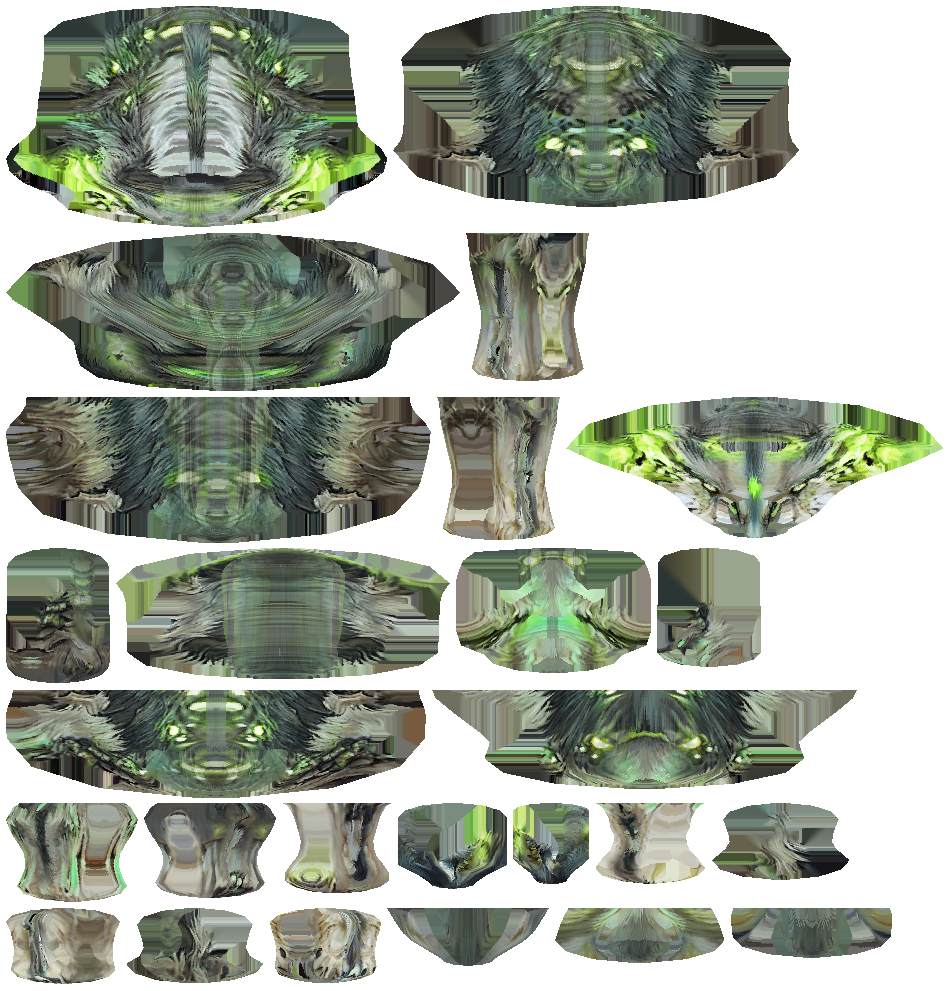
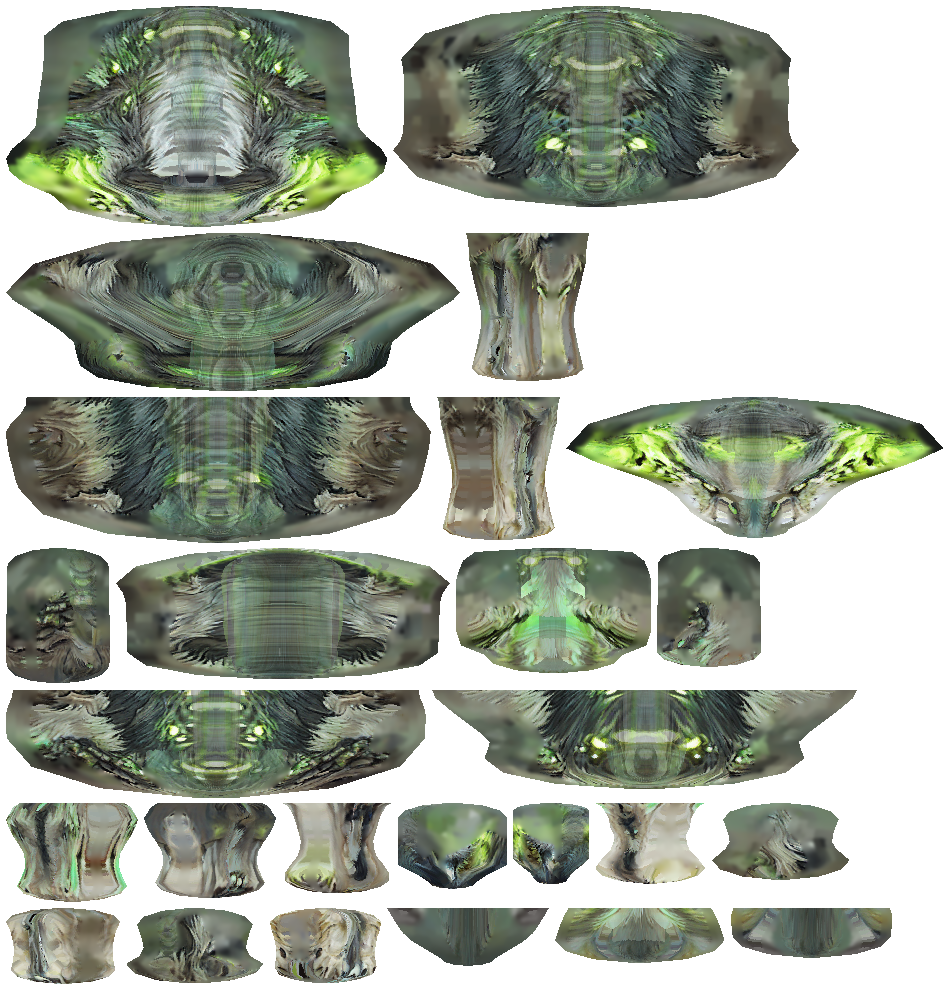
feat(gs_puppet): what no painting sees takes the nearest painted colour in 3D
Build sheet used to fill the texels no painting reached by smearing across
the flat pattern sheet, so a troll's neck, hidden in every view, came out
bare or streaked. fill_unseen fills them on the body instead: the seen
texels' surface points go into cubes of eight sizes (0.04 ft, doubling), and each unseen
texel takes a Gaussian-weighted mean of the 27 neighbouring cubes at the
finest level that has any, then a few smoothing passes. fill_holes still
runs after it for anything left.

Sheets and skins rebuilt: humanoid (and its normal sheet), lurk, and the
canine, humanoid and troll creatures' skins (the hull clip also changed
their pattern sizes).

diff --git a/crates/gs_puppet/src/prefill.rs b/crates/gs_puppet/src/prefill.rs
@@ -21,9 +21,10 @@
 //! side as the side silhouette shows it, from the creature's right (-x),
 //! and used again, as a mirror image, for the left.
 //!
-//! What no painting sees -- an armpit, the inside of a thigh -- is filled
-//! from the nearest painted pixel of the same patch, so the sheet has no
-//! holes. A pixel off every patch stays transparent.
+//! What no painting sees -- an armpit, the inside of a thigh, a neck hidden
+//! under the head -- takes the colour of the painted surface nearest it on
+//! the body, in 3D and across patches ([`fill_unseen`]), so the sheet has
+//! no holes. A pixel off every patch stays transparent.
 
 use rig_bake::Grid;
 
@@ -266,6 +267,7 @@ pub fn prefill(p: &Puppet, layout: &UvLayout, paintings: &Paintings) -> Vec<u8> 
     // 0 = off every patch, 1 = on a patch but unseen, 2 = painted.
     let mut state = vec![0u8; w * h];
     let mut owner = vec![usize::MAX; w * h];
+    let mut points: Vec<Option<V3>> = vec![None; w * h];
     for y in 0..h {
         for x in 0..w {
             let Some((seg, station, theta)) = layout.address([x as f32 + 0.5, y as f32 + 0.5]) else { continue };
@@ -273,6 +275,7 @@ pub fn prefill(p: &Puppet, layout: &UvLayout, paintings: &Paintings) -> Vec<u8> 
             owner[i] = seg;
             state[i] = 1;
             let Some((point, normal)) = rest_point(p, seg, station, theta) else { continue };
+            points[i] = Some(point);
             let (mut sum, mut weight) = ([0.0f32; 3], 0.0f32);
             for (look, grid, painting, depth) in &views {
                 let facing = dot(normal, look.toward());
@@ -309,6 +312,7 @@ pub fn prefill(p: &Puppet, layout: &UvLayout, paintings: &Paintings) -> Vec<u8> 
             }
         }
     }
+    fill_unseen(&mut rgba, &mut state, &points, &owner, w, h);
     fill_holes(&mut rgba, &mut state, &owner, w, h);
     rgba
 }
@@ -396,6 +400,126 @@ fn rest_point(p: &Puppet, seg: usize, station: f32, theta: f32) -> Option<(V3, V
     // semi-axes, so a flat cross-section faces the right way.
     let normal = norm_or(add(scale(s.axis_w, cs / w.max(1e-3)), scale(s.axis_d, sn / d.max(1e-3))), [0.0, 0.0, 1.0]);
     Some((point, normal))
+}
+
+/// Colour the unseen pixels from the painted surface nearest them ON THE
+/// BODY, not on the sheet: every painted pixel is binned by its rest point
+/// into cubes of [`FILL_LEVELS`] sizes, and an unseen one takes the
+/// distance-weighted mean colour of the cubes round it at the finest size
+/// that has any. Near paint that is the colour just beside it -- across a
+/// patch's edge too, so a neck no view sees takes the jaw's and the
+/// chest's -- and far from any, the broad mean of the skin round it, where
+/// growing across the sheet drew streaks of whatever edge was nearest.
+/// A few smoothing passes over the filled pixels soften the steps where one
+/// cube size hands over to the next. What this leaves (a pixel with no
+/// surface point) is for [`fill_holes`].
+fn fill_unseen(rgba: &mut [u8], state: &mut [u8], points: &[Option<V3>], owner: &[usize], w: usize, h: usize) {
+    #[derive(Default, Clone, Copy)]
+    struct Cube {
+        rgb: [f32; 3],
+        at: V3,
+        n: f32,
+    }
+    let cube_of = |p: V3, size: f32| -> [i32; 3] { p.map(|v| (v / size).floor() as i32) };
+    // 21 bits a coordinate: a million cubes of the finest size each way.
+    let key = |c: [i32; 3]| -> u64 { c.iter().fold(0u64, |k, &v| (k << 21) | (v as u32 as u64 & 0x1f_ffff)) };
+    let size = |level: usize| FILL_CELL_FT * (1u32 << level) as f32;
+    let mut levels: Vec<Cubes<Cube>> = (0..FILL_LEVELS).map(|_| Cubes::default()).collect();
+    for i in 0..w * h {
+        let (2, Some(p)) = (state[i], points[i]) else { continue };
+        let c = [rgba[i * 4] as f32, rgba[i * 4 + 1] as f32, rgba[i * 4 + 2] as f32];
+        for (level, cubes) in levels.iter_mut().enumerate() {
+            let q = cubes.entry(key(cube_of(p, size(level)))).or_default();
+            q.rgb = std::array::from_fn(|k| q.rgb[k] + c[k]);
+            q.at = add(q.at, p);
+            q.n += 1.0;
+        }
+    }
+    let mut filled = Vec::new();
+    for i in 0..w * h {
+        let (1, Some(p)) = (state[i], points[i]) else { continue };
+        for (level, cubes) in levels.iter().enumerate() {
+            let s = size(level);
+            let c = cube_of(p, s);
+            let (mut sum, mut weight) = ([0.0f32; 3], 0.0f32);
+            for d in 0..27i32 {
+                let at = [c[0] + d % 3 - 1, c[1] + d / 3 % 3 - 1, c[2] + d / 9 - 1];
+                let Some(q) = cubes.get(&key(at)) else { continue };
+                let far = crate::math::len(crate::math::sub(scale(q.at, 1.0 / q.n), p)) / s;
+                let wt = q.n.sqrt() * (-far * far).exp();
+                for k in 0..3 {
+                    sum[k] += q.rgb[k] / q.n * wt;
+                }
+                weight += wt;
+            }
+            if weight > 0.0 {
+                rgba[i * 4..i * 4 + 3].copy_from_slice(&sum.map(|v| (v / weight).round().clamp(0.0, 255.0) as u8));
+                rgba[i * 4 + 3] = 255;
+                filled.push(i);
+                break;
+            }
+        }
+    }
+    for &i in &filled {
+        state[i] = 2;
+    }
+    for _ in 0..FILL_SMOOTH_PASSES {
+        let before = rgba.to_vec();
+        for &i in &filled {
+            let (x, y) = ((i % w) as isize, (i / w) as isize);
+            let (mut sum, mut n) = ([0u32; 3], 0u32);
+            for (dx, dy) in [(0isize, 0isize), (-1, 0), (1, 0), (0, -1), (0, 1)] {
+                let (qx, qy) = (x + dx, y + dy);
+                if qx < 0 || qy < 0 || qx as usize >= w || qy as usize >= h {
+                    continue;
+                }
+                let j = qy as usize * w + qx as usize;
+                if state[j] == 2 && owner[j] == owner[i] {
+                    for k in 0..3 {
+                        sum[k] += before[j * 4 + k] as u32;
+                    }
+                    n += 1;
+                }
+            }
+            for k in 0..3 {
+                rgba[i * 4 + k] = (sum[k] / n) as u8;
+            }
+        }
+    }
+}
+
+/// The finest cube of [`fill_unseen`], feet; each coarser size doubles it.
+const FILL_CELL_FT: f32 = 0.04;
+/// Cube sizes of [`fill_unseen`]: the coarsest is 0.04 x 2^7 = 5.12 ft,
+/// wider than any patch of skin no painting sees.
+const FILL_LEVELS: usize = 8;
+/// Smoothing passes over the pixels [`fill_unseen`] coloured.
+const FILL_SMOOTH_PASSES: usize = 6;
+
+/// A map keyed by a packed cube coordinate. The standard hasher is built to
+/// resist hostile keys and is slow for the million lookups a sheet makes;
+/// this mixes the key with splitmix64's finaliser, enough for the low bits
+/// hashbrown indexes by to depend on every coordinate.
+type Cubes<V> = std::collections::HashMap<u64, V, std::hash::BuildHasherDefault<CubeHasher>>;
+
+#[derive(Default)]
+struct CubeHasher(u64);
+
+impl std::hash::Hasher for CubeHasher {
+    fn finish(&self) -> u64 {
+        let mut z = self.0.wrapping_add(0x9e37_79b9_7f4a_7c15);
+        z = (z ^ (z >> 30)).wrapping_mul(0xbf58_476d_1ce4_e5b9);
+        z = (z ^ (z >> 27)).wrapping_mul(0x94d0_49bb_1331_11eb);
+        z ^ (z >> 31)
+    }
+    fn write(&mut self, bytes: &[u8]) {
+        for &b in bytes {
+            self.0 = (self.0 << 8) | b as u64;
+        }
+    }
+    fn write_u64(&mut self, v: u64) {
+        self.0 = v;
+    }
 }
 
 /// Grow painted pixels into their patch's unseen ones, a ring at a time,
